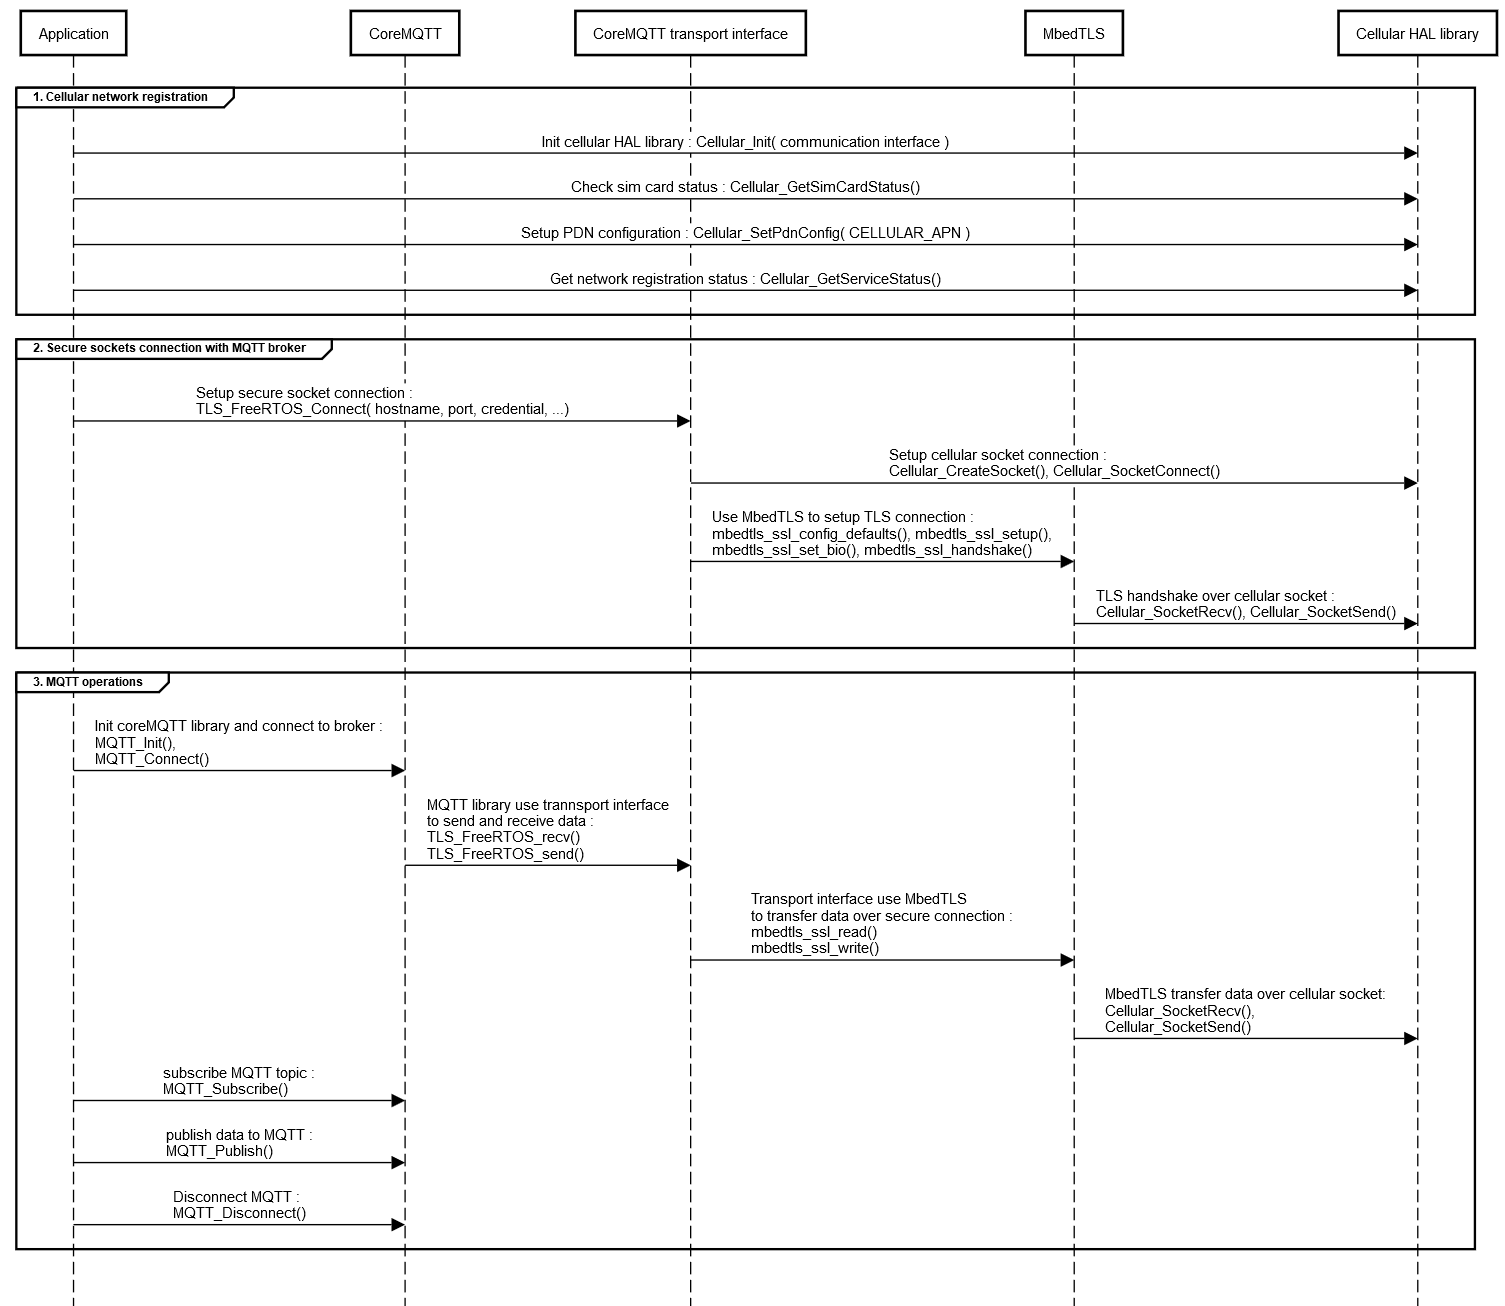
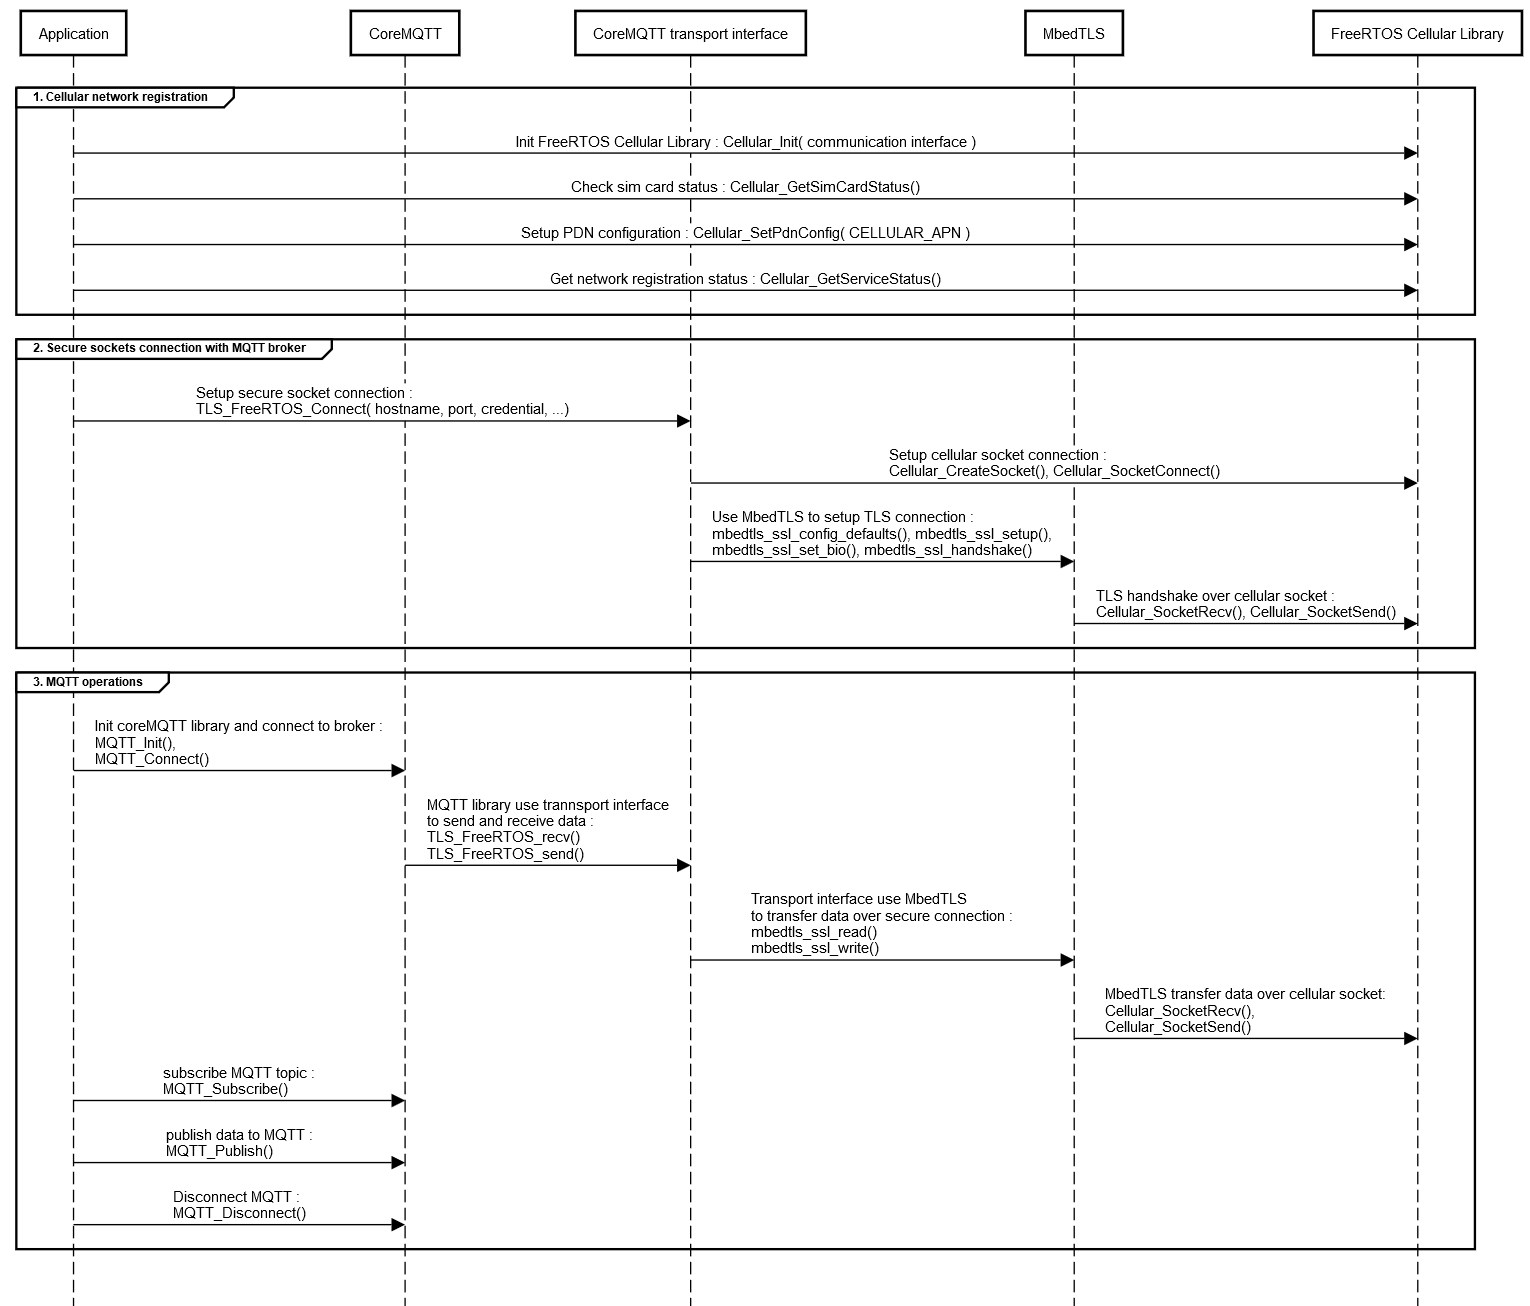
Update FreeRTOS Cellular Library
Update FreeRTOS Cellular Library

diff --git a/source/main.c b/source/main.c
@@ -51,7 +51,7 @@ static UBaseType_t ulNextRand;
 
 /*-----------------------------------------------------------*/
 
-/* Cellular HAL init and setup cellular network registration. */
+/* FreeRTOS Cellular Library init and setup cellular network registration. */
 extern bool setupCellular( void );
 
 /* MQTT demo application. */
@@ -89,8 +89,8 @@ int main( void )
      * See https://www.FreeRTOS.org/mqtt_lts/index.html for configuration and usage instructions.
      ***/
 
-    /* Cellular HAL init needs thread ready environment.
-     * CellularDemoTask invoke setupCellular to init cellular HAL and register network.
+    /* FreeRTOS Cellular Library init needs thread ready environment.
+     * CellularDemoTask invoke setupCellular to init FreeRTOS Cellular Library and register network.
      * Then it runs the MQTT demo. */
     xTaskCreate( CellularDemoTask,         /* Function that implements the task. */
                  "CellularDemo",           /* Text name for the task - only used for debugging. */

diff --git a/source/coreMQTT/sockets_wrapper.c b/source/coreMQTT/sockets_wrapper.c
@@ -35,7 +35,7 @@
 /* Sockets wrapper includes. */
 #include "sockets_wrapper.h"
 
-/* Cellular HAL api includes. */
+/* FreeRTOS Cellular Library api includes. */
 #include "cellular_config.h"
 #include "cellular_config_defaults.h"
 #include "cellular_api.h"

diff --git a/source/cellular_setup.c b/source/cellular_setup.c
@@ -36,7 +36,7 @@
 #include <stdlib.h>
 #include <stdio.h>
 
-/* Cellular HAL include. */
+/* FreeRTOS Cellular Library include. */
 #include "cellular_config.h"
 #include "cellular_config_defaults.h"
 #include "cellular_types.h"

diff --git a/README.md b/README.md
@@ -1,16 +1,16 @@
-# FreeRTOS Labs - Cellular Demo
+# FreeRTOS Labs - FreeRTOS Cellular Library Demo
 
 ## Introduction
 
-FreeRTOS offers a suite of networking stacks designed for IoT applications.  Applications can access communication protocols at different levels - MQTT, HTTP, Secure Sockets, etc.  Common connectivity technologies such as Ethernet, Wi-Fi and BLE have been integrated with the networking stacks of FreeRTOS, with a [wide selection of microcontrollers and modules](https://devices.amazonaws.com/search?page=1&sv=freertos) pre-integrated. 
+FreeRTOS offers a suite of networking stacks designed for IoT applications.  Applications can access communication protocols at different levels - MQTT, HTTP, Secure Sockets, etc.  Common connectivity technologies such as Ethernet, Wi-Fi and BLE have been integrated with the networking stacks of FreeRTOS, with [a wide selection of microcontrollers and modules](https://devices.amazonaws.com/search?page=1&sv=freertos) pre-integrated.
 
-The demos in this project demonstrate how to establish mutually authenticated MQTT connections to MQTT brokers, such as AWS IoT Core, by using cellular connectivity.  The demos use the [Cellular HAL libraries](https://github.com/FreeRTOS/Lab-Project-FreeRTOS-Cellular-HAL/raw/main/doc/document/cellular.zip) sub-moduled from an external project.  The Cellular HAL libraries expose the capability of a few popular cellular modems through a uniform API.  
+The demos in this project demonstrate how to establish mutually authenticated MQTT connections to MQTT brokers, such as AWS IoT Core, by using cellular connectivity.  The demos use the [FreeRTOS Cellular Library](https://github.com/FreeRTOS/Lab-Project-FreeRTOS-Cellular-Library/raw/main/doc/document/cellular.zip) sub-moduled from an external project.  The FreeRTOS Cellular Library exposes the capability of a few popular cellular modems through a uniform API.
 
 1. Quectel BG96
 2. Sierra Wireless HL7802
 3. U-Blox Sara-R4
 
-The MQTT and HTTP libraries of FreeRTOS use an abstract [Transport Interface](https://github.com/FreeRTOS/coreMQTT/blob/main/source/interface/transport_interface.h) to send/receive data in a generic way.  The demos in this project offer a [implementation](https://github.com/FreeRTOS/Lab-Project-FreeRTOS-Cellular-Demo/blob/master/source/coreMQTT/using_mbedtls.c) of the Transport Interface on top of the uniform API exposed by the Cellular HAL libraries.  
+The MQTT and HTTP libraries of FreeRTOS use an abstract [Transport Interface](https://github.com/FreeRTOS/coreMQTT/blob/main/source/interface/transport_interface.h) to send/receive data in a generic way.  The demos in this project offer a [implementation](https://github.com/FreeRTOS/Lab-Project-FreeRTOS-Cellular-Demo/blob/master/source/coreMQTT/using_mbedtls.c) of the Transport Interface on top of the uniform API exposed by the FreeRTOS Cellular Library.
 
 ## Hardware Setup
 
@@ -44,14 +44,14 @@ Figure 1. Components and Interfaces</p>
 
 The other components shown as blue boxes and dotted lines are implemented by this project:
 
-1. The [Demo Application](https://github.com/FreeRTOS/Lab-Project-FreeRTOS-Cellular-Demo/blob/main/source).  It is largely the same as the [coreMQTT demo](https://github.com/FreeRTOS/FreeRTOS/tree/master/FreeRTOS-Plus/Demo/coreMQTT_Windows_Simulator/MQTT_Mutual_Auth), with added logic to set up cellular as the transport.  (The original coreMQTT demo was designed for Wi-Fi on FreeRTOS Windows Simulator.)  There is also a demo application that integrates [1nce Zero Touch Provisioning](https://1nce.com/en/help-center/tutorials-documentations/1nce-connectivity-suite/) with the Cellular HAL and coreMQTT for connecting to AWS IoT Core.
+1. The [Demo Application](https://github.com/FreeRTOS/Lab-Project-FreeRTOS-Cellular-Demo/blob/main/source).  It is largely the same as the [coreMQTT demo](https://github.com/FreeRTOS/FreeRTOS/tree/master/FreeRTOS-Plus/Demo/coreMQTT_Windows_Simulator/MQTT_Mutual_Auth), with added logic to set up cellular as the transport.  (The original coreMQTT demo was designed for Wi-Fi on FreeRTOS Windows Simulator.)  There is also a demo application that integrates [1nce Zero Touch Provisioning](https://1nce.com/en/help-center/tutorials-documentations/1nce-connectivity-suite/) with the FreeRTOS Cellular Library and coreMQTT for connecting to AWS IoT Core.
 2. The [Transport Interface](https://github.com/FreeRTOS/Lab-Project-FreeRTOS-Cellular-Demo/blob/main/source/coreMQTT/using_mbedtls.c) is needed by the MQTT library (sub-moduled from the [coreMQTT](https://github.com/freertos/coreMQTT) project) to send and receive packets.
 3. The[TLS porting interface](https://github.com/FreeRTOS/Lab-Project-FreeRTOS-Cellular-Demo/blob/main/source/mbedtls/mbedtls_freertos_port.c) is needed by the mbedTLS library to run on FreeRTOS.
-4. The [Comm Interface](https://github.com/FreeRTOS/Lab-Project-FreeRTOS-Cellular-Demo/blob/main/source/cellular/comm_if_windows.c) is used by the Cellular HAL libraries to communicate with the cellular modems over UART connections.
+4. The [Comm Interface](https://github.com/FreeRTOS/Lab-Project-FreeRTOS-Cellular-Demo/blob/main/source/cellular/comm_if_windows.c) is used by the FreeRTOS Cellular Library to communicate with the cellular modems over UART connections.
 
 ## Developer References and API Documents
 
-Please refer to [cellular HAL library API document.](https://github.com/FreeRTOS/Lab-Project-FreeRTOS-Cellular-HAL/raw/main/doc/document/cellular.zip)
+Please refer to [FreeRTOS Cellular Library API document](https://github.com/FreeRTOS/Lab-Project-FreeRTOS-Cellular-Library/raw/main/doc/document/cellular.zip).
 
 
 ## Download the source code
@@ -91,7 +91,7 @@ There is also a demo for 1nce zero touch provisioning with BG96 modem:
 ./Lab-Project-FreeRTOS-Cellular-Demo
 ├── lib
 │   ├── backoff_algorithm ( submodule : backoffAlgorithm )
-│   ├── cellular ( submodule : Lab-Project-FreeRTOS-Cellular-HAL )
+│   ├── cellular ( submodule : Lab-Project-FreeRTOS-Cellular-Library )
 │   ├── coreMQTT ( submodule : coreMQTT )
 │   ├── FreeRTOS ( submodule : FreeRTOS-Kernel )
 │   └── ThirdParty
@@ -103,7 +103,7 @@ There is also a demo for 1nce zero touch provisioning with BG96 modem:
 │   └──  1nce_bg96_zero_touch_provisioning_demo ( demo project for 1nce zero touch provisioning with BG96 )
 └── source
     ├── cellular
-    │   └── ( code for adapting Cellular HAL libraries with this demo )
+    │   └── ( code for adapting FreeRTOS Cellular Library with this demo )
     ├── coreMQTT
     │   └── ( code for adapting coreMQTT with this demo )
     ├── FreeRTOS
